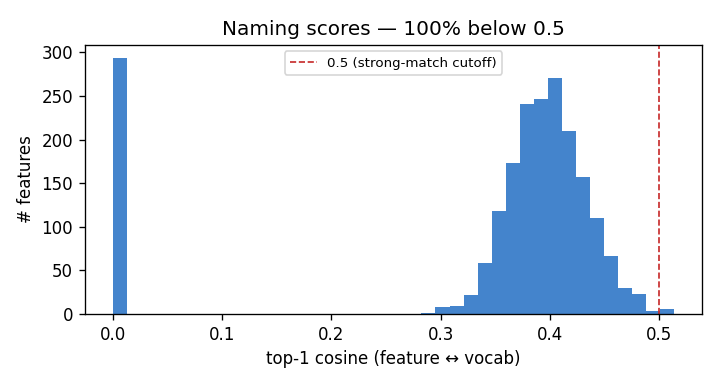
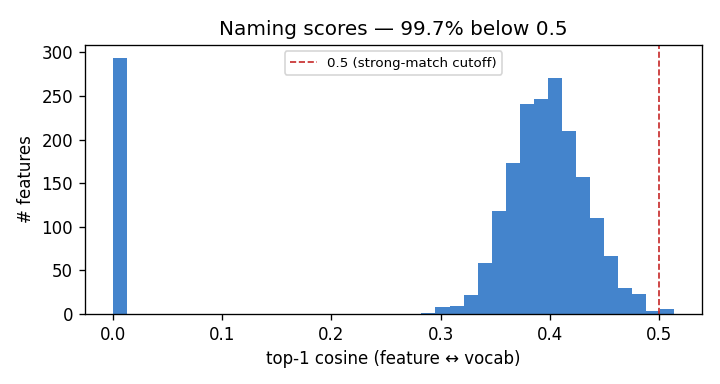
docs(presentation): update member assignments and improve slide content clarity

Changed region(s): [[0.55, 0.0312, 0.7944, 0.0938], [0.3056, 0.0312, 0.5194, 0.0938]]

diff --git a/docs/presentation/index.html b/docs/presentation/index.html
@@ -48,7 +48,7 @@
       flex: 0 0 100vw; width: 100vw; height: 100vh;
       scroll-snap-align: start;
       padding: clamp(48px, 7vw, 96px) clamp(48px, 8vw, 112px);
-      display: flex; flex-direction: column; justify-content: center;
+      display: flex; flex-direction: column; justify-content: safe center;
       position: relative; overflow: hidden;
     }
     .slide.light { background: var(--bg); color: var(--fg); }
@@ -125,7 +125,7 @@
     /* ─── figure split ─────────────────────────────────────────── */
     .fig-grid { display: grid; grid-template-columns: 1.02fr 0.98fr; gap: 48px; align-items: center; margin-top: 28px; }
     .fig { border: 1px solid var(--border-2); border-radius: var(--radius); background: var(--surface); padding: 14px; }
-    .fig img { width: 100%; height: auto; display: block; border-radius: 12px; }
+    .fig img { display: block; max-width: 100%; max-height: 40vh; width: auto; height: auto; margin: 0 auto; border-radius: 12px; }
     .fig .fcap { font-family: var(--font-mono); font-size: 11px; color: var(--muted); margin: 10px 2px 2px; line-height: 1.45; }
     .slide.dark .fig { background: rgba(255,255,255,0.05); border-color: rgba(255,255,255,0.16); }
     .slide.dark .fig .fcap { color: rgba(250,250,247,0.6); }
@@ -175,11 +175,11 @@
 <body>
 
   <!--═══════════════════════════════════════════════════════════════
-    PART 1 — Member 1 · Problem, background, setup  (slides 1–5)
+    PART 1 — Nicolò Colle · Problem, background, setup  (slides 1–5)
   ════════════════════════════════════════════════════════════════-->
 
   <section class="slide hero light center" data-screen-label="01 Cover">
-    <div class="part-tag"><b>Part 1 of 3</b> · Member 1</div>
+    <div class="part-tag"><b>Part 1 of 3</b> · Nicolò Colle</div>
     <div class="eyebrow">Explainable &amp; Trustworthy AI · Project · Politecnico di Torino</div>
     <h1 class="h-hero">Concept discovery in medical VLMs: a rigorous failure.</h1>
     <p class="lead">A faithful re-implementation of the MedConcept pipeline on BiomedCLIP — IU X-Ray (~7k) and ROCOv2 (~80k, 10×). We characterise why SAE concept discovery is non-identifiable, and what a deterministic alternative can do.</p>
@@ -192,7 +192,7 @@
   </section>
 
   <section class="slide light" data-screen-label="02 Problem">
-    <div class="part-tag"><b>Part 1 of 3</b> · Member 1</div>
+    <div class="part-tag"><b>Part 1 of 3</b> · Nicolò Colle</div>
     <p class="eyebrow">The problem</p>
     <h2 class="h-xl">Medical VLMs are accurate but opaque.</h2>
     <p class="lead">Strong performance on pathology classification, segmentation and report generation — but the internal representations are high-dimensional, polysemic and unreadable. A serious concern in safety-critical clinical use, where classic post-hoc tools (saliency, attention) rarely resolve into semantic structure.</p>
@@ -204,7 +204,7 @@
   </section>
 
   <section class="slide dark" data-screen-label="03 Approach">
-    <div class="part-tag"><b>Part 1 of 3</b> · Member 1</div>
+    <div class="part-tag"><b>Part 1 of 3</b> · Nicolò Colle</div>
     <p class="eyebrow">Approach</p>
     <h2 class="h-md">Concept-based XAI: from supervised to unsupervised discovery.</h2>
     <div class="pt-grid">
@@ -230,14 +230,10 @@
   </section>
 
   <section class="slide light" data-screen-label="04 Setup">
-    <div class="part-tag"><b>Part 1 of 3</b> · Member 1</div>
+    <div class="part-tag"><b>Part 1 of 3</b> · Nicolò Colle</div>
     <p class="eyebrow">Backbone &amp; vocabulary</p>
-    <h2 class="h-xl">BiomedCLIP (ViT-B/16) + RadLex.</h2>
-    <ul class="bl">
-      <li><b>BiomedCLIP</b> — ViT-B/16 image encoder + PubMedBERT, pretrained on PMC-15M. Exposes a <b>768-d</b> hidden state projected by a frozen <code>visual_projection</code> ℝ⁷⁶⁸→ℝ⁵¹² into the shared contrastive space (224×224, L2-normalised).</li>
-      <li><b>RadLex vocabulary</b> — ~1,030 terms (512-d): 39 anchor queries over 13 sub-domains + 14 NIH ChestX-ray14 seeds, ranked by cosine to a multi-centroid relevance score.</li>
-      <li><b>Modality gap</b> (Liang 2022) — systematic offset between image and text cones (cross-modal cosine ≈0.27, centroid L2 ≈0.94). Estimated and <b>subtracted</b> before naming/decomposition.</li>
-    </ul>
+    <h2 class="h-xl">BiomedCLIP + RadLex.</h2>
+    <p class="lead">Our backbone is BiomedCLIP. Its image encoder exposes a <b>768-d hidden state</b> that a frozen projection compresses into the <b>512-d</b> contrastive space we actually decompose. We name features against a curated <b>RadLex</b> radiology vocabulary. And we correct the <b>modality gap</b> — the systematic offset between the image and text cones — before any naming or decomposition.</p>
     <p class="impl">Impl: <code>src/embedding_extraction/extract_embeddings.py</code>, <code>src/vocabulary_building/build_vocabulary.py</code></p>
     <aside class="aside" data-notes="04">
       <p>Key technical point: 768-d (hidden) → 512-d (contrastive). The baseline operates on the 512-d projected space; Path A goes back to the 768-d pre-projection state.</p>
@@ -246,42 +242,42 @@
   </section>
 
   <section class="slide dark" data-screen-label="05 Data">
-    <div class="part-tag"><b>Part 1 of 3</b> · Member 1</div>
+    <div class="part-tag"><b>Part 1 of 3</b> · Nicolò Colle</div>
     <p class="eyebrow">Data</p>
-    <h2 class="h-md">Two scales: IU X-Ray (1×) and ROCOv2 (10×).</h2>
+    <h2 class="h-md">Two scales: IU X-Ray and ROCOv2 (10×).</h2>
     <div class="ba-grid">
       <div class="ba-col">
         <p class="ba-label">IU X-Ray · 1× · primary</p>
-        <h3>7,470 images · 3,852 studies.</h3>
-        <p>Split <b>by radiographic study</b> (key = <code>patient_IM-study</code>): no study in both train and test. → 5,955 train / 1,515 test (3,081 / 771 studies), verified group overlap = 0, recomputed deterministically.</p>
+        <h3>The small-scale setting.</h3>
+        <p>Split <b>by radiographic study</b>, so no study appears in both train and test — verified <b>zero</b> overlap, recomputed deterministically every run.</p>
       </div>
       <div class="ba-col">
         <p class="ba-label" style="color: var(--accent);">ROCOv2 · 10× · replication</p>
-        <h3>~80,000 images.</h3>
-        <p>Split <b>by image</b> (no shared patient structure). A 10× replication that lets us test the data-scale hypothesis directly: does more data cure non-identifiability?</p>
+        <h3>A ten-times larger corpus.</h3>
+        <p>Split by image. It exists to test one hypothesis head-on: <b>does more data cure non-identifiability?</b></p>
       </div>
     </div>
     <p class="impl">Impl: <code>src/utils.py</code> (<code>split_embeddings</code>) · anti-leakage test: <code>tests/unit/test_split.py</code></p>
     <aside class="aside" data-notes="05">
       <p>Honest methodological choice: IU split by study (no patient leakage), ROCOv2 by image (no shared structure). Deterministic, recomputed each run.</p>
       <p>The 10× of ROCOv2 is not “more data = better”: it is the test bed for the scale hypothesis. Spoiler for Part 2: it does not help.</p>
-      <p>End of Part 1. Hand off to Member 2: method + the core result.</p>
+      <p>End of Part 1. Hand off to Marc'Antonio Lopez: method + the core result.</p>
     </aside>
   </section>
 
   <!--═══════════════════════════════════════════════════════════════
-    PART 2 — Member 2 · Method + non-identifiability  (slides 6–10)
+    PART 2 — Marc'Antonio Lopez · Method + non-identifiability  (slides 6–10)
   ════════════════════════════════════════════════════════════════-->
 
   <section class="slide light" data-screen-label="06 Method">
-    <div class="part-tag"><b>Part 2 of 3</b> · Member 2</div>
+    <div class="part-tag"><b>Part 2 of 3</b> · Marc'Antonio Lopez</div>
     <p class="eyebrow">Method</p>
     <h2 class="h-md">Three paths + an organisation extension.</h2>
     <div class="pipeline">
       <div class="step">
         <span class="nb">01 · BASELINE</span>
         <h3>Top-K SAE 512-d</h3>
-        <p>Faithful MedConcept re-impl. D=2048, k=32, 8k steps, 5 seeds (0, 42, 123, 456, 789). The failure case.</p>
+        <p>Faithful MedConcept re-implementation. One config, trained across <b>multiple seeds</b> — that is what makes a stability metric possible.</p>
       </div>
       <div class="step">
         <span class="nb">02 · PATH A</span>
@@ -291,7 +287,7 @@
       <div class="step">
         <span class="nb">03 · PATH B</span>
         <h3>SPLiCE</h3>
-        <p>Decomposition over a fixed RadLex dictionary: OMP (k=32) + NNLS. Deterministic. Targets Gap 1+4.</p>
+        <p>Decomposition over a fixed RadLex dictionary — no learning, so deterministic. Targets Gap 1+4.</p>
       </div>
       <div class="step">
         <span class="nb">04 · ORG</span>
@@ -308,10 +304,10 @@
   </section>
 
   <section class="slide hero dark center" data-screen-label="07 Headline result">
-    <div class="part-tag"><b>Part 2 of 3</b> · Member 2</div>
+    <div class="part-tag"><b>Part 2 of 3</b> · Marc'Antonio Lopez</div>
     <div class="eyebrow">The headline result · Gap 1</div>
     <div class="stat-num">1.81<span class="unit">×</span><span class="sub">1.67× on IU X-Ray · 1.81× on ROCOv2</span></div>
-    <p class="stat-caption">The baseline SAE reconstructs faithfully (cosine 0.97–0.99) but its cross-seed best-match is only <b>1.67×–1.81× the conditioned null</b>. ~0% of features match at ≥0.9; naming capped at 0.40–0.48 (0% above 0.7). Identity is absent — genuine non-identifiability, not a training bug.</p>
+    <p class="stat-caption">The baseline SAE reconstructs its inputs well — but cross-seed <b>feature identity is absent</b>: best-match barely above the conditioned null, almost nothing matches strongly, naming stays low. Genuine non-identifiability, not a training bug.</p>
     <aside class="aside" data-notes="07">
       <p>Pivot slide. Good reconstruction ≠ canonical features — this is the point to hammer home.</p>
       <p>Decoders are full-rank, inits distinct, no collapse → not a bug. It is intrinsic to the representation site (pooled CLS, compressed, contrastive-shaped).</p>
@@ -320,12 +316,12 @@
   </section>
 
   <section class="slide light" data-screen-label="08 Relabeling control">
-    <div class="part-tag"><b>Part 2 of 3</b> · Member 2</div>
+    <div class="part-tag"><b>Part 2 of 3</b> · Marc'Antonio Lopez</div>
     <p class="eyebrow">Relabeling control · Gap 6</p>
     <h2 class="h-xl">The slot-wise metric is floor-by-construction.</h2>
     <div class="fig-grid">
       <div>
-        <p class="lead" style="margin-bottom:16px;">Permute one SAE's encoder/decoder rows by a random bijection π — function-preserving, reconstruction unchanged to 10⁻⁴. The slot-wise Jaccard collapses to <b>0.0077</b>, indistinguishable from real cross-seed. The matched metric correctly reports identity (1.0).</p>
+        <p class="lead" style="margin-bottom:16px;">Rename one SAE's features with a random permutation — same network, same reconstruction — and the slot-wise Jaccard collapses to the <b>0.0077</b> floor, indistinguishable from two genuinely different SAEs. The matched metric correctly sees identity. Slot-wise is permutation noise, not a stability measure.</p>
         <p class="impl">Impl: <code>scripts/relabeling_control.py</code> — <code>relabel_state_dict(sd, perm)</code></p>
       </div>
       <div class="fig">
@@ -341,58 +337,53 @@
   </section>
 
   <section class="slide light" data-screen-label="09 Path A vs baseline">
-    <div class="part-tag"><b>Part 2 of 3</b> · Member 2</div>
+    <div class="part-tag"><b>Part 2 of 3</b> · Marc'Antonio Lopez</div>
     <p class="eyebrow">Path A (768-d) vs baseline (512-d)</p>
     <h2 class="h-md">Moving the representation site is not enough.</h2>
     <div class="fig-grid">
       <div>
-        <ul class="bl" style="margin-top:0;">
-          <li><b>Dead features</b> — 16.0% → <b>1.7%</b> (Path A is healthier)</li>
-          <li><b>Naming cosine</b> — 0.42 → 0.47</li>
-          <li><b>Matched obs / null</b> — 1.97× → 2.63× (still weak universality)</li>
-          <li><b>Frac. matched ≥0.9</b> — ≈0% → ≈0% (no canonical features)</li>
-        </ul>
-        <p class="impl" style="margin-top:16px;">Impl: <code>src/sae_hidden/</code> (<code>naming_hidden.py</code>), <code>scripts/run_path_a.py</code></p>
+        <p class="lead">Path A trains the SAE on the hidden state <b>before</b> the projection. It is genuinely healthier — far fewer dead features, better naming — but the permutation-invariant verdict does <b>not</b> change: still almost no features match strongly. This is <b>weak universality</b>: a shared subspace, not identical features. And it still operates on the pooled CLS token, not patch tokens.</p>
+        <p class="impl" style="margin-top:16px;">Impl: <code>src/sae_hidden/</code>, <code>scripts/run_path_a.py</code></p>
       </div>
       <div class="fig">
         <img src="assets/naming-scores.png" alt="Naming score distribution — most features' top-1 cosine below 0.5" />
-        <p class="fcap">Naming scores — top-1 feature↔vocab cosine. Most features sit well below 0.5: a name assigned by cosine is cosmetic, not a real semantic match.</p>
+        <p class="fcap">Naming scores — top-1 feature↔vocab cosine. Most features sit well below 0.5: a cosine-assigned name is cosmetic, not a real match.</p>
       </div>
     </div>
     <aside class="aside" data-notes="09">
       <p>Path A is a local improvement (fewer dead features, better naming) but it does not change the global verdict — “weak universality” (Lan 2024, Leask 2025): a shared subspace, not identical features.</p>
       <p>Why still not enough: we still operate on the pooled CLS token (the contrastive global summary), not on patch tokens. The paper says this explicitly.</p>
-      <p>Naming figure (failure_naming_scores.png) titled “Naming scores — X% below 0.5”; matches the naming row 0.42 / 0.47 and the capped 0.40–0.48 claim.</p>
+      <p>Naming figure (failure_naming_scores.png) titled “Naming scores — 99.7% below 0.5” (max 0.513); matches the naming row 0.42 / 0.47 and the capped 0.40–0.48 claim.</p>
     </aside>
   </section>
 
   <section class="slide hero dark center" data-screen-label="10 Scale refuted">
-    <div class="part-tag"><b>Part 2 of 3</b> · Member 2</div>
+    <div class="part-tag"><b>Part 2 of 3</b> · Marc'Antonio Lopez</div>
     <div class="eyebrow">The scale hypothesis · Gap 4</div>
     <div class="stat-num">10<span class="unit">×</span><span class="sub">ROCOv2 ~80k vs IU X-Ray ~7k</span></div>
-    <p class="stat-caption">10× more data improves <b>training health</b> (dead features 16%→0.6%) but <b>not identifiability</b>: matched 0.299→0.327, subspace ratio 1.67×→1.81×, frac≥0.9 0%→0.3%, naming 0.40–0.48. The binding constraint is the representation site, not data volume.</p>
+    <p class="stat-caption">Ten times more data improves <b>training health</b> but <b>not identifiability</b> — every stability indicator stays flat. The binding constraint is the <b>representation site</b>, not data volume.</p>
     <aside class="aside" data-notes="10">
       <p>Contribution (3): a direct refutation of the “more data = identifiable features” hypothesis.</p>
       <p>The 10× moves training-health indicators, not identity ones. End of Part 2: erank ≈357–363 is far below the 2048-way dictionary, so no feature is canonical on such a compressed global vector.</p>
-      <p>Hand off to Member 3: deterministic alternatives + evaluation.</p>
+      <p>Hand off to Carmine Francesco Benvenuto: deterministic alternatives + evaluation.</p>
     </aside>
   </section>
 
   <!--═══════════════════════════════════════════════════════════════
-    PART 3 — Member 3 · Deterministic alternatives, evaluation, conclusions (11–15)
+    PART 3 — Carmine Francesco Benvenuto · Deterministic alternatives, evaluation, conclusions (11–15)
   ════════════════════════════════════════════════════════════════-->
 
   <section class="slide light" data-screen-label="11 SPLiCE">
-    <div class="part-tag"><b>Part 3 of 3</b> · Member 3</div>
+    <div class="part-tag"><b>Part 3 of 3</b> · Carmine Francesco Benvenuto</div>
     <p class="eyebrow">Path B · SPLiCE</p>
     <h2 class="h-xl">Deterministic. Judge-ready.</h2>
-    <p class="lead">SPLiCE decomposes each gap-corrected 512-d embedding into a sparse, non-negative combination over the fixed RadLex dictionary: <b>OMP</b> selects k=32 atoms, then <b>NNLS</b> re-solves the coefficients. The dictionary is never estimated → deterministic by construction, zero cross-seed instability.</p>
+    <p class="lead">SPLiCE decomposes each embedding into a sparse, non-negative combination over the <b>fixed RadLex</b> dictionary. The dictionary is never estimated, so the result is <b>deterministic by construction</b> — zero cross-seed instability. It scales easily to both corpora, and correcting the modality gap turns out to be the decisive fix, not the solver.</p>
     <ul class="bl">
-      <li><b>IU X-Ray</b> — 1,515 test in 9.5s · 997/1,031 terms (96.7%) · 14.18 concepts/img.</li>
-      <li><b>ROCOv2</b> — 15,958 img in 101s · 1,024/1,024 terms (100%) · 8.56 concepts/img.</li>
-      <li><b>Gap correction is decisive</b> — max atom–image cosine IU 0.49→0.85, ROCOv2 0.54→0.86.</li>
+      <li><b>Fixed dictionary</b> — no estimation, no seeds, no instability.</li>
+      <li><b>Same output schema as the SAE</b> — the same judge can score it.</li>
+      <li><b>Honest caveat</b> — frequent terms are "mixed", a property of the supplied dictionary.</li>
     </ul>
-    <p class="impl">Impl: <code>src/concept_discovery/spliece.py</code> — <code>decompose_image()</code> · <code>scripts/run_spliece.py</code></p>
+    <p class="impl">Impl: <code>src/concept_discovery/spliece.py</code> — <code>decompose_image()</code></p>
     <aside class="aside" data-notes="11">
       <p>SPLiCE trades an estimation problem (learning the dictionary) for a given one (RadLex fixed). No seed, no non-identifiability.</p>
       <p>The output schema is SAE-compatible → the same LLM-judge can score it (matters on slide 13).</p>
@@ -401,11 +392,11 @@
   </section>
 
   <section class="slide light" data-screen-label="12 Faithfulness">
-    <div class="part-tag"><b>Part 3 of 3</b> · Member 3</div>
+    <div class="part-tag"><b>Part 3 of 3</b> · Carmine Francesco Benvenuto</div>
     <p class="eyebrow">Faithfulness · Gap 2</p>
     <h2 class="h-xl">A small upper tail is genuinely faithful.</h2>
-    <p class="lead">Faithfulness ablation (baseline D=2048, 5 seeds): <b>17.8%±0.9</b> of live features exceed the shuffle-null 95th percentile in point-biserial correlation with IU X-Ray MeSH/Problems labels; <b>1.1%</b> reach |r|&gt;0.30 (strongest |r|=0.459±0.057, on a <i>mass</i> feature).</p>
-    <p class="lead" style="margin-top:16px;">Yet they stay <b>unstable cross-seed</b>: zero features cluster across the 5 seeds at cosine ≥0.90; only 0.1% in a ≥4-seed cluster at ≥0.70 (not above the shuffle null, p=0.17). Partially faithful, entirely non-reproducible.</p>
+    <p class="lead">We asked a simpler question: do <b>any</b> features track real pathology? We correlated activations against the ground-truth labels, with a shuffle null. The honest answer: a <b>small upper tail</b> is genuinely faithful — and the strongest feature looks like a <i>mass</i>, which is clinically plausible.</p>
+    <p class="lead" style="margin-top:16px;">But those same features stay <b>unstable across seeds</b>. The concepts are <b>partially faithful, entirely non-reproducible</b> — exactly the kind of result worth reporting honestly.</p>
     <p class="impl">Impl: <code>scripts/run_faithfulness.py</code> · <code>main.tex</code> §5.6</p>
     <aside class="aside" data-notes="12">
       <p>Honest, faceted result: a real signal exists (~18% upper tail, and the “mass” feature at |r|=0.459 is clinically plausible), but it is small and unstable.</p>
@@ -414,10 +405,10 @@
   </section>
 
   <section class="slide hero dark center" data-screen-label="13 LLM judge">
-    <div class="part-tag"><b>Part 3 of 3</b> · Member 3</div>
+    <div class="part-tag"><b>Part 3 of 3</b> · Carmine Francesco Benvenuto</div>
     <div class="eyebrow">LLM-as-judge · local plausibility</div>
     <div class="stat-num">81.6<span class="unit">%</span><span class="sub">vs 3.3% with Llama-3.1-8B</span></div>
-    <p class="stat-caption">SPLiCE on IU X-Ray: <b>81.6% Aligned</b> under MedGemma-4B (1,230/1,508) but only <b>3.3%</b> under Llama-3.1-8B (Uncertain 73.9%). ROCOv2 baseline: 88.3% vs 23.1%. Judge run to convergence (T=0, zero parse errors). Local plausibility <b>orthogonal</b> to global identifiability.</p>
+    <p class="stat-caption">SPLiCE scores <b>high local plausibility</b> under a medical-tuned judge — but <b>almost nothing</b> under a general one. The Aligned rate is a property of the <b>judging model</b> as much as of the explanation. And this local plausibility is <b>orthogonal</b> to global identifiability.</p>
     <aside class="aside" data-notes="13">
       <p>The %Aligned is a property of the judging model as much as of the explanation: the cross-LLM spread (81.6% vs 3.3%) proves it. MedGemma is medical-tuned, Llama is general.</p>
       <p>Numbers verified on JSON: results/iu_xray/spliece/judge_scores_*.json (aligned_rate 0.8156 / 0.0325, n=1508) and results/rocov2/baseline/judge_scores_*.json (0.8833 / 0.2314, n=15957).</p>
@@ -426,7 +417,7 @@
   </section>
 
   <section class="slide light" data-screen-label="14 Conclusions">
-    <div class="part-tag"><b>Part 3 of 3</b> · Member 3</div>
+    <div class="part-tag"><b>Part 3 of 3</b> · Carmine Francesco Benvenuto</div>
     <p class="eyebrow">Conclusions</p>
     <h2 class="h-md">Three lessons that generalise.</h2>
     <div class="pt-grid">
@@ -451,7 +442,7 @@
   </section>
 
   <section class="slide hero dark center" data-screen-label="15 Future work">
-    <div class="part-tag"><b>Part 3 of 3</b> · Member 3</div>
+    <div class="part-tag"><b>Part 3 of 3</b> · Carmine Francesco Benvenuto</div>
     <div class="eyebrow">Limitations &amp; future work</div>
     <h2 class="h-hero">SAE on the patch-token residual stream.</h2>
     <p class="lead">The diagnosis is predictive: decomposing BiomedCLIP <b>patch-token</b> residual stream (a mid layer, not the pooled CLS) should restore identifiability — the experiment our characterisation points to as the next step.</p>

diff --git a/docs/presentation/SCRIPT.md b/docs/presentation/SCRIPT.md
@@ -14,11 +14,11 @@ A Rigorous Characterization of Sparse-Autoencoder Failure and Deterministic Alte
 - Numbers are real — from `docs/latex/main.tex`, cross-checked on `results/*.json`. Don't paraphrase them loosely; if you round, say "about".
 - Each block: **slide label**, the spoken text, and the key numbers to land. Press **`N`** during the deck to see on-slide notes too.
 
-Member → part mapping is a suggestion; names can be swapped without touching content.
+Member → part assignment: **Part 1 — Nicolò Colle**, **Part 2 — Marc'Antonio Lopez**, **Part 3 — Carmine Francesco Benvenuto**. Swap if you prefer; content stays the same.
 
 ---
 
-# PART 1 — Member 1 · Problem, background, setup  (slides 1–5, ~4.5 min)
+# PART 1 — Nicolò Colle · Problem, background, setup  (slides 1–5, ~4.5 min)
 
 ## 01 · Cover
 > Good morning. Our project re-implements the **MedConcept** pipeline for discovering interpretable
@@ -72,13 +72,13 @@ Member → part mapping is a suggestion; names can be swapped without touching c
 > images, with verified **zero** group overlap, recomputed deterministically every run. **ROCOv2** is
 > roughly 80,000 images — a **ten-times** replication — and we split it by image, since it has no shared
 > patient structure. The point of ROCOv2 is not "more data is better"; it is a direct test of the
-> **scale hypothesis**. That's the end of Part 1 — over to [Member 2] for the method and the core result.
+> **scale hypothesis**. That's the end of Part 1 — over to Marc'Antonio Lopez for the method and the core result.
 
-*(~70 s. Hand off to Member 2.)*
+*(~70 s. Hand off to Marc'Antonio Lopez.)*
 
 ---
 
-# PART 2 — Member 2 · Method + non-identifiability  (slides 6–10, ~4.5 min)
+# PART 2 — Marc'Antonio Lopez · Method + non-identifiability  (slides 6–10, ~4.5 min)
 
 ## 06 · Method — three paths + an organisation extension
 > Thanks. We attack the problem with **three paths plus one extension**. The **baseline** is a faithful
@@ -137,13 +137,13 @@ Member → part mapping is a suggestion; names can be swapped without touching c
 > these out of the non-identifiability regime. So the binding constraint is the **representation site**:
 > a sparse autoencoder on the CLS vector is factoring a single, already-compressed global vector whose
 > effective rank — about 357 — is far below the 2048-way dictionary. That closes Part 2 — over to
-> [Member 3] for what still works.
+> Carmine Francesco Benvenuto for what still works.
 
-*(~75 s. Contribution (3). Hand off to Member 3.)*
+*(~75 s. Contribution (3). Hand off to Carmine Francesco Benvenuto.)*
 
 ---
 
-# PART 3 — Member 3 · Deterministic alternatives, evaluation, conclusions  (slides 11–15, ~4.5 min)
+# PART 3 — Carmine Francesco Benvenuto · Deterministic alternatives, evaluation, conclusions  (slides 11–15, ~4.5 min)
 
 ## 11 · SPLiCE — deterministic, judge-ready
 > Thanks. If learned factorisation is non-identifiable, the clean fix is to **not learn the dictionary**.
@@ -206,11 +206,11 @@ Member → part mapping is a suggestion; names can be swapped without touching c
 
 ## Timing summary
 
-| Part | Member | Slides | Target |
+| Part | Presenter | Slides | Target |
 |---|---|---|---|
-| 1 | Member 1 | 01–05 | ~4.5 min |
-| 2 | Member 2 | 06–10 | ~4.5 min |
-| 3 | Member 3 | 11–15 | ~4.5 min |
+| 1 | Nicolò Colle | 01–05 | ~4.5 min |
+| 2 | Marc'Antonio Lopez | 06–10 | ~4.5 min |
+| 3 | Carmine Francesco Benvenuto | 11–15 | ~4.5 min |
 | **Total** | | **15** | **~13.5–14 min** (+ Q&A) |
 
 If you run long: trim the caveats on slides 11 and 12 first — they're the easiest to shorten without losing the argument.

diff --git a/docs/presentation/README.md b/docs/presentation/README.md
@@ -25,14 +25,14 @@ Open: `docs/presentation/index.html` (double-click, or `python3 -m http.server` 
 
 ## Structure — 3 equal parts (5 slides each), < 15 min
 
-~50–55 s per slide → ~13.5–14 min total. One member per part. Name ↔ part is a suggestion
-(remappable without touching content).
+~50–55 s per slide → ~13.5–14 min total. One presenter per part: **Part 1 — Nicolò Colle**,
+**Part 2 — Marc'Antonio Lopez**, **Part 3 — Carmine Francesco Benvenuto** (swappable without touching content).
 
-| Part | Slides | Member | Topic |
+| Part | Slides | Presenter | Topic |
 |---|---|---|---|
-| **1** | 01–05 | Member 1 | Problem, concept-based XAI, BiomedCLIP + RadLex setup, data IU X-Ray vs ROCOv2 |
-| **2** | 06–10 | Member 2 | Method (3 paths), headline non-identifiability result, relabeling control, Path A, scale refuted |
-| **3** | 11–15 | Member 3 | SPLiCE (deterministic), faithfulness, LLM-judge, conclusions, future work |
+| **1** | 01–05 | Nicolò Colle | Problem, concept-based XAI, BiomedCLIP + RadLex setup, data IU X-Ray vs ROCOv2 |
+| **2** | 06–10 | Marc'Antonio Lopez | Method (3 paths), headline non-identifiability result, relabeling control, Path A, scale refuted |
+| **3** | 11–15 | Carmine Francesco Benvenuto | SPLiCE (deterministic), faithfulness, LLM-judge, conclusions, future work |
 
 ### Slide → paper → implementation
 
@@ -63,7 +63,7 @@ Both figures are real project outputs, sourced from `results/iu_xray/`:
 - `assets/cross-seed-jaccard.png` ← `results/iu_xray/figures/failure_jaccard_matrix.png`
   (generated by `scripts/run_failure_case_analysis.py`, title *"Cross-seed Jaccard (mean …)"*)
 - `assets/naming-scores.png` ← `results/iu_xray/figures/failure_naming_scores.png`
-  (title *"Naming scores — X% below 0.5"*, x = top-1 feature↔vocab cosine)
+  (title *"Naming scores — 99.7% below 0.5"*, x = top-1 feature↔vocab cosine)
 
 More figures exist in the repo (`per_seed_metrics.png`, `concept_score_distribution.png`,
 `jaccard_heatmap.png` under `results/iu_xray/[baseline/]figures/`) — only the two that map